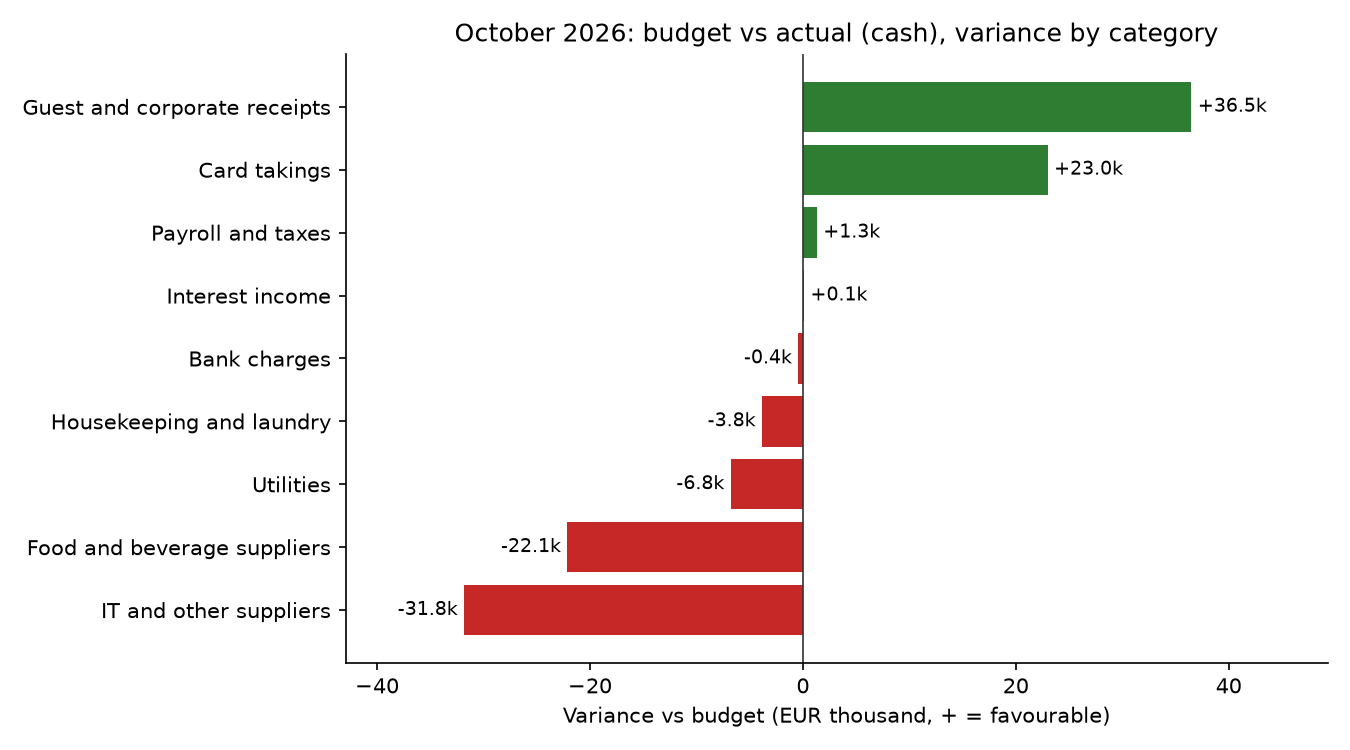
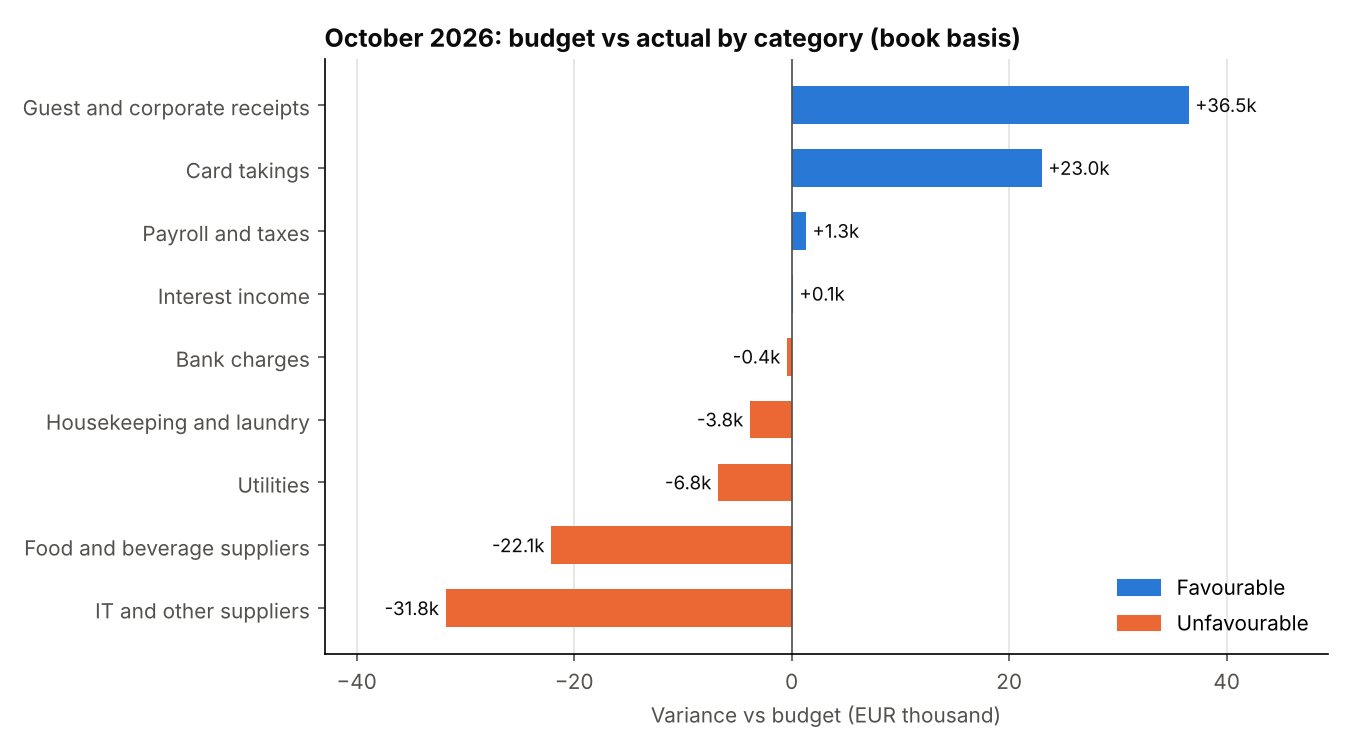
ledger-reconciliation: double-entry journal entries, formatted Excel report, colour-blind safe chart, book-basis wording
Claude-Session: https://claude.ai/code/session_017ncuRwnuSgp2QerQff8kTQ

diff --git a/02-ledger-reconciliation/src/reconciliation_report.py b/02-ledger-reconciliation/src/reconciliation_report.py
@@ -16,6 +16,7 @@ Run from the project folder:
 from pathlib import Path
 
 import pandas as pd
+from openpyxl.styles import Alignment, Font, PatternFill
 
 PROJECT = Path(__file__).resolve().parent.parent
 DATA = PROJECT / "data"
@@ -70,30 +71,107 @@ print(statement.to_string(index=False, float_format=lambda x: f"{x:,.2f}"))
 assert abs(adjusted_bank - adjusted_gl) < 0.01, "Reconciliation does not balance!"
 print("\nReconciled: adjusted bank = adjusted GL")
 
-# Step 5. The correcting journal entries the GL needs (timing items need none)
-gl_errors = (exc["side"] == "GL") & exc["category"].isin(["Duplicate GL posting", "GL amount error"])
-not_booked = (exc["side"] == "Bank") & exc["category"].isin(["Bank fee not booked", "Interest not booked",
-                                                             "Unidentified receipt"])
-to_book = exc[gl_errors | not_booked]  # | means OR, like in R
-print(f"Correcting entries to book: {len(to_book)}")
+# Step 5. The correcting journal entries (double entry: every entry has a debit and a credit).
+#         Timing items need no entry: they clear by themselves in November.
+ACCOUNTS = {
+    1100: "Bank (operating account)",
+    1200: "Trade receivables",
+    2000: "Trade payables",
+    2450: "Unallocated receipts (suspense)",
+    6810: "Bank charges",
+    7900: "Interest income",
+}
 
-# Step 6. Write one Excel file with four sheets
-matched = pd.concat([pd.read_csv(OUT / "matched_exact.csv").assign(match_pass="1: reference + amount"),
-                     pd.read_csv(OUT / "matched_date_amount.csv").assign(match_pass="2: date + amount")])
+
+def counter_account(amount):
+    """Receipts (money in) were booked against receivables, payments (money out) against payables."""
+    return 1200 if amount > 0 else 2000
+
+
+entries = []  # one dict per journal entry
+for _, row in exc.iterrows():
+    cat, side, amount = row["category"], row["side"], row["amount"]
+    if cat == "Bank fee not booked":
+        effect, counter, text = amount, 6810, f"Book bank charge: {row['description'].title()}"
+    elif cat == "Interest not booked":
+        effect, counter, text = amount, 7900, "Book interest credited by the bank"
+    elif cat == "Unidentified receipt":
+        effect, counter, text = amount, 2450, f"Park unidentified receipt ({row['reference']}) until the guest is found"
+    elif cat == "Duplicate GL posting":
+        effect, counter, text = -amount, counter_account(amount), f"Reverse duplicate posting {row['reference']}"
+    elif cat == "GL amount error" and side == "GL":
+        bank_amount = exc.loc[(exc["reference"] == row["reference"]) & (exc["side"] == "Bank"), "amount"].iloc[0]
+        effect = bank_amount - amount
+        counter = counter_account(amount)
+        text = f"Correct {row['reference']}: booked {amount:,.2f}, bank shows {bank_amount:,.2f}"
+    else:
+        continue  # timing items, and the bank side of an amount error, need no entry
+
+    # effect = change to the bank account (1100). Money into the bank is a DEBIT to 1100.
+    debit, credit = (1100, counter) if effect > 0 else (counter, 1100)
+    entries.append({"date": "2026-10-31", "debit_account": f"{debit} {ACCOUNTS[debit]}",
+                    "credit_account": f"{credit} {ACCOUNTS[credit]}", "amount": round(abs(effect), 2),
+                    "description": text, "source": row["id"], "effect_on_bank_account": round(effect, 2)})
+
+journal = pd.DataFrame(entries)
+print(f"Correcting journal entries: {len(journal)}")
+print(journal[["debit_account", "credit_account", "amount", "description"]].to_string(index=False))
+
+# The entries must move the GL exactly to the adjusted GL balance
+assert abs(journal["effect_on_bank_account"].sum() - (adjusted_gl - gl_balance)) < 0.01, \
+    "Journal entries don't add up to the GL adjustments"
+
+# Step 6. One Excel file with four sheets, formatted for a finance manager
+matched_1 = pd.read_csv(OUT / "matched_exact.csv")
+matched_2 = pd.read_csv(OUT / "matched_date_amount.csv")
+matched = pd.concat([
+    pd.DataFrame({"bank_id": matched_1["bank_id"], "gl_id": matched_1["gl_id"],
+                  "reference_bank": matched_1["reference"], "reference_gl": matched_1["reference"],
+                  "amount": matched_1["amount_bank"], "match_pass": "1: reference + amount", "action": ""}),
+    pd.DataFrame({"bank_id": matched_2["bank_id"], "gl_id": matched_2["gl_id"],
+                  "reference_bank": matched_2["reference_bank"], "reference_gl": matched_2["reference_gl"],
+                  "amount": matched_2["amount_bank"], "match_pass": "2: date + amount", "action": matched_2["action"]}),
+], ignore_index=True)
+
+SHEETS = [  # (sheet name, table, readable column headers)
+    ("Reconciliation", statement, {"section": "Section", "line": "Line", "amount_eur": "Amount (EUR)"}),
+    ("Exceptions", exc, {"side": "Side", "id": "ID", "date": "Date", "description": "Description",
+                         "reference": "Reference", "amount": "Amount (EUR)", "category": "Category",
+                         "action": "Action"}),
+    ("Journal entries", journal.drop(columns="effect_on_bank_account"),
+     {"date": "Date", "debit_account": "Debit", "credit_account": "Credit", "amount": "Amount (EUR)",
+      "description": "Description", "source": "Source line"}),
+    ("Matched", matched, {"bank_id": "Bank ID", "gl_id": "GL ID", "reference_bank": "Reference (bank)",
+                          "reference_gl": "Reference (GL)", "amount": "Amount (EUR)",
+                          "match_pass": "Matched by", "action": "Action"}),
+]
+
+HEADER_FONT = Font(bold=True, color="FFFFFF")
+HEADER_FILL = PatternFill("solid", fgColor="1F4E79")   # dark blue header row
+TOTAL_FILL = PatternFill("solid", fgColor="DDEBF7")    # light blue for key result lines
+EUR = "#,##0.00;(#,##0.00)"                             # 1,234.56 and (1,234.56) for negatives
+
 report = OUT / "reconciliation_oct2026.xlsx"
 with pd.ExcelWriter(report, engine="openpyxl") as xl:
-    statement.to_excel(xl, sheet_name="Reconciliation", index=False)
-    exc.to_excel(xl, sheet_name="Exceptions", index=False)
-    to_book.to_excel(xl, sheet_name="Entries to book", index=False)
-    matched.to_excel(xl, sheet_name="Matched", index=False)
-
-    # Make it readable: wider columns, amounts with thousands separators
-    for ws in xl.book.worksheets:
-        for col in ws.columns:
-            ws.column_dimensions[col[0].column_letter].width = max(12, max(len(str(c.value or "")) for c in col) + 2)
-            for cell in col[1:]:
-                if isinstance(cell.value, float):
-                    cell.number_format = "#,##0.00;(#,##0.00)"
+    for name, table, headers in SHEETS:
+        table.rename(columns=headers).to_excel(xl, sheet_name=name, index=False)
+        ws = xl.sheets[name]
+        for cell in ws[1]:                                      # header row
+            cell.font, cell.fill = HEADER_FONT, HEADER_FILL
+            cell.alignment = Alignment(vertical="center")
+        for col in ws.columns:                                  # widths and number formats
+            width = max(len(str(c.value)) if c.value is not None else 0 for c in col)
+            ws.column_dimensions[col[0].column_letter].width = min(max(12, width + 2), 60)
+            if col[0].value == "Amount (EUR)":
+                for cell in col[1:]:
+                    cell.number_format = EUR
         ws.freeze_panes = "A2"
+
+    # Highlight the result lines on the reconciliation sheet
+    ws = xl.sheets["Reconciliation"]
+    for row in ws.iter_rows(min_row=2):
+        if row[1].value.startswith(("Adjusted", "Difference")):
+            for cell in row:
+                cell.font, cell.fill = Font(bold=True), TOTAL_FILL
 
 print(f"Saved {report.relative_to(PROJECT)}")

diff --git a/02-ledger-reconciliation/src/budget_vs_actual.py b/02-ledger-reconciliation/src/budget_vs_actual.py
@@ -21,6 +21,7 @@ Run from the project folder:
 from pathlib import Path
 
 import matplotlib.pyplot as plt
+from matplotlib.patches import Patch
 import pandas as pd
 
 PROJECT = Path(__file__).resolve().parent.parent
@@ -30,6 +31,13 @@ OUT = PROJECT / "output"
 # A variance is worth explaining only if it is big in % AND in EUR (materiality)
 FLAG_PCT = 0.05     # 5%
 FLAG_EUR = 5_000    # EUR 5,000
+
+# The comparison is on a BOOK basis: card takings of 30-31 Oct are booked in October although
+# the bank receives them in November (deposits in transit), so this is not pure cash.
+TOTAL_LABEL = "NET MOVEMENT (BOOK BASIS)"
+
+# Chart colours: same palette as the hotel KPI project
+BLUE, ORANGE, INK, INK_2 = "#2a78d6", "#eb6834", "#0b0b0b", "#52514e"
 
 # Step 1. Load the ledger, the exceptions from Task 4 and the budget
 gl = pd.read_csv(DATA / "general_ledger.csv")
@@ -52,7 +60,7 @@ extra = pd.DataFrame({"gl_id": "NEW-" + bank_only["id"], "posting_date": bank_on
                       "account": 1100, "source": "Bank", "description": bank_only["description"],
                       "reference": bank_only["reference"], "amount": bank_only["amount"]})
 gl = pd.concat([gl, extra], ignore_index=True)
-print(f"Corrected ledger: {len(gl)} entries, net cash flow EUR {gl['amount'].sum():,.2f}")
+print(f"Corrected ledger: {len(gl)} entries, net movement EUR {gl['amount'].sum():,.2f} (book basis)")
 
 # Step 3. Put every ledger line into a budget category
 SUPPLIER_CATEGORY = {
@@ -96,7 +104,7 @@ bva["variance_pct"] = bva["variance_eur"] / bva["budget_eur"].abs()
 bva["result"] = bva["variance_eur"].apply(lambda v: "Favourable" if v >= 0 else "Unfavourable")
 bva["explain"] = (bva["variance_pct"].abs() >= FLAG_PCT) & (bva["variance_eur"].abs() >= FLAG_EUR)
 
-total = pd.DataFrame([{"category": "NET CASH FLOW", "budget_eur": bva["budget_eur"].sum(),
+total = pd.DataFrame([{"category": TOTAL_LABEL, "budget_eur": bva["budget_eur"].sum(),
                        "actual_eur": bva["actual_eur"].sum()}])
 total["variance_eur"] = total["actual_eur"] - total["budget_eur"]
 total["variance_pct"] = total["variance_eur"] / total["budget_eur"].abs()
@@ -116,18 +124,25 @@ print(f"\nTo explain to management (>= {FLAG_PCT:.0%} and >= EUR {FLAG_EUR:,}): 
 bva.round(4).to_csv(OUT / "budget_vs_actual.csv", index=False)
 gl.to_csv(OUT / "general_ledger_corrected.csv", index=False)
 
-# Step 6. Chart: variance by category, green = favourable, red = unfavourable
-lines = bva[bva["category"] != "NET CASH FLOW"].sort_values("variance_eur")
-colors = ["#2e7d32" if v >= 0 else "#c62828" for v in lines["variance_eur"]]
+# Step 6. Chart: variance by category, blue = favourable, orange = unfavourable
+#         (blue/orange instead of green/red so colour-blind readers can tell them apart)
+lines = bva[bva["category"] != TOTAL_LABEL].sort_values("variance_eur")
+colors = [BLUE if v >= 0 else ORANGE for v in lines["variance_eur"]]
 fig, ax = plt.subplots(figsize=(9, 5))
-ax.barh(lines["category"], lines["variance_eur"] / 1000, color=colors)
-ax.axvline(0, color="#333333", linewidth=0.8)
-ax.set_title("October 2026: budget vs actual (cash), variance by category")
-ax.set_xlabel("Variance vs budget (EUR thousand, + = favourable)")
+ax.barh(lines["category"], lines["variance_eur"] / 1000, color=colors, height=0.6)
+ax.axvline(0, color=INK_2, linewidth=0.8)
+ax.set_title("October 2026: budget vs actual by category (book basis)", loc="left",
+             fontweight="bold", color=INK)
+ax.set_xlabel("Variance vs budget (EUR thousand)", color=INK_2)
 for y, v in enumerate(lines["variance_eur"] / 1000):
     ax.text(v + (0.6 if v >= 0 else -0.6), y, f"{v:+,.1f}k", va="center",
-            ha="left" if v >= 0 else "right", fontsize=9)
+            ha="left" if v >= 0 else "right", fontsize=9, color=INK)
 ax.spines[["top", "right"]].set_visible(False)
+ax.tick_params(colors=INK_2)
+ax.grid(axis="x", color="#e4e3df", linewidth=0.8)
+ax.set_axisbelow(True)
+ax.legend(handles=[Patch(color=BLUE, label="Favourable"), Patch(color=ORANGE, label="Unfavourable")],
+          loc="lower right", frameon=False)
 ax.set_xlim(min(lines["variance_eur"].min() / 1000 * 1.35, -5), max(lines["variance_eur"].max() / 1000 * 1.35, 5))
 fig.tight_layout()
 fig.savefig(OUT / "budget_variance.png", dpi=150)

diff --git a/02-ledger-reconciliation/README.md b/02-ledger-reconciliation/README.md
@@ -8,8 +8,8 @@ compared with the budget.
 **What I did.** Reconciled one month (October 2026) of a 130-room Budapest luxury hotel's
 operating bank account in Python. Two matching passes pair bank lines with GL entries, the
 leftovers are classified into timing items and real errors, a reconciliation statement proves
-the adjusted balances agree, and the correcting entries go to an Excel report. Finally the
-corrected ledger is compared with the October budget.
+the adjusted balances agree, and the correcting journal entries (debit and credit) go to a
+formatted Excel report. Finally the corrected ledger is compared with the October budget.
 
 ![Budget variance by category](output/budget_variance.png)
 
@@ -21,7 +21,7 @@ corrected ledger is compared with the October budget.
 | Pass 2: date + amount | **2** more (references typed wrongly, e.g. `PAY-5400` for `PAY-5040`) |
 | Exceptions classified | **17**, none left to investigate |
 | Reconciled balance | **EUR 1,026,745.47** on both sides, difference 0.00 |
-| Correcting entries | **8** (2 duplicates, 2 wrong amounts, 2 bank fees, interest, 1 unidentified receipt) |
+| Correcting journal entries | **8** (2 duplicates, 2 wrong amounts, 2 bank fees, interest, 1 unidentified receipt) |
 
 **Reconciliation statement, 31 October 2026 (EUR)**
 | Bank side | | GL side | |
@@ -34,7 +34,25 @@ corrected ledger is compared with the October budget.
 | | | + Unidentified receipt | 2,340.00 |
 | **Adjusted bank balance** | **1,026,745.47** | **Adjusted GL balance** | **1,026,745.47** |
 
-**Budget vs actual.** Net cash flow EUR 176,745 vs a budget of EUR 180,800 (−2.2%). Four lines
+**Correcting journal entries (31 October 2026, EUR)**
+| Debit | Credit | Amount | Why |
+|---|---|---:|---|
+| 6810 Bank charges | 1100 Bank | 185.00 | Monthly account fee not booked |
+| 6810 Bank charges | 1100 Bank | 1,742.36 | Card-terminal fees not booked |
+| 1100 Bank | 7900 Interest income | 412.18 | Interest credited, not booked |
+| 1100 Bank | 2450 Unallocated receipts | 2,340.00 | Guest transfer, booking to be identified |
+| 1200 Trade receivables | 1100 Bank | 16,437.88 | Reverse duplicate receipt INV-261019 |
+| 1100 Bank | 2000 Trade payables | 624.14 | Reverse duplicate payment PAY-5023 |
+| 1200 Trade receivables | 1100 Bank | 450.00 | INV-261007 booked as 4,830, received 4,380 |
+| 1100 Bank | 2000 Trade payables | 270.00 | PAY-5011 booked as 1,520, paid 1,250 |
+
+Net effect on the bank account: EUR −15,168.92, which takes the GL from 1,041,914.39 to the
+reconciled 1,026,745.47. Both wrong amounts differ by a multiple of 9 (450 and 270), the typical
+sign of two swapped digits.
+
+**Budget vs actual.** Net movement on the bank account EUR 176,745 vs a budget of EUR 180,800 (−2.2%).
+The comparison is on a **book basis**: October's card takings include EUR 54,679 booked in
+October that the bank only receives in November. Four lines
 pass the materiality test (≥ 5% and ≥ EUR 5,000): IT and other suppliers (−53%, EUR −31.8k),
 food and beverage suppliers (−14.7%, EUR −22.1k), utilities (−14.1%, EUR −6.8k), and guest and
 corporate receipts (+10.1%, EUR +36.5k). Bank charges are 28.5% over budget but only EUR 427,
@@ -47,7 +65,7 @@ so they are not flagged.
 | `src/match_exact.py` | Pass 1: inner join on reference + amount (in cents), with a counter so one bank line can't match two duplicates |
 | `src/match_date_amount.py` | Pass 2: the same join on date + amount, to catch wrongly typed references |
 | `src/classify_exceptions.py` | Rules for what is left: timing (deposits in transit, outstanding payments) vs errors (duplicates, wrong amounts, unbooked bank items) |
-| `src/reconciliation_report.py` | Reconciliation statement, correcting entries, Excel report `output/reconciliation_oct2026.xlsx` |
+| `src/reconciliation_report.py` | Reconciliation statement, double-entry correcting journal entries (checked to add up to the GL adjustment), formatted Excel report `output/reconciliation_oct2026.xlsx` with 4 sheets: Reconciliation, Exceptions, Journal entries, Matched |
 | `src/budget_vs_actual.py` | Applies the corrections, groups by budget category, variance and materiality flag, chart |
 
 ## Tools

diff --git a/PROGRESS.md b/PROGRESS.md
@@ -122,6 +122,15 @@
   budget CSV was missing). (fill in anything else)
 - **To review:** the three interview questions below, out loud, in under 60 seconds each.
 
+### 2026-11-27: ledger-reconciliation review fixes (Claude, after checking the branch)
+- **Checked:** all scripts rerun from scratch; every checkpoint matches (178 + 2 matches, 17 exceptions,
+  adjusted bank = adjusted GL = EUR 1,026,745.47, all 17 planted problems found).
+- **Improved:** proper double-entry journal entries (Dr/Cr with account numbers, asserted to equal the
+  GL adjustment of EUR −15,168.92); formatted Excel report (readable headers, € format, highlighted
+  totals); variance chart in blue/orange (colour-blind safe, same palette as Project 1); budget
+  comparison relabelled "book basis" (card takings include EUR 54,679 deposits in transit).
+- **To review:** write the 8 journal entries by hand from the exception list, then compare.
+
 ## Review list (things to revisit before interviews)
 - Hotel KPI formulas: occupancy, ADR, RevPAR = occupancy × ADR, cancellation rate, net ADR.
 - Calendar range join (`date >= check_in AND date < check_out`) and why check-out is not a night.
